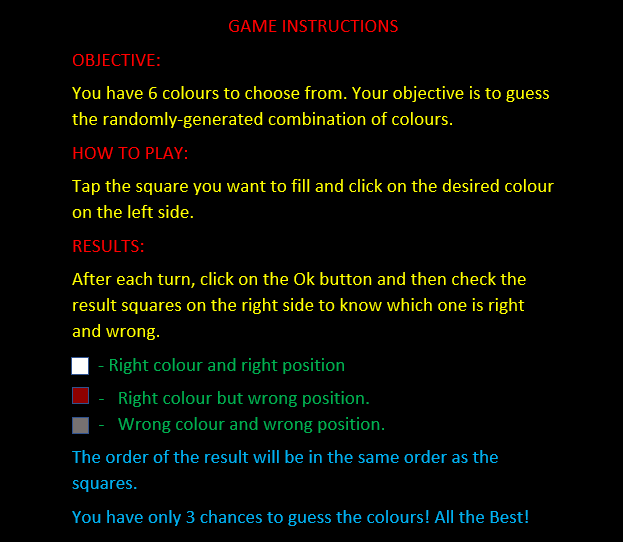
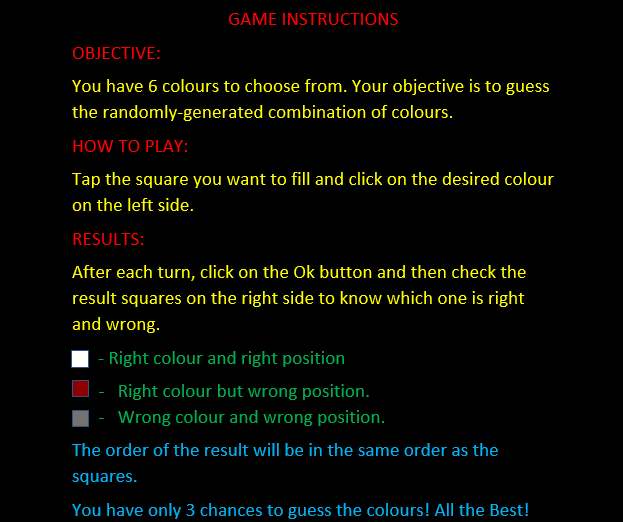
Add files via upload

diff --git a/sketch.js b/sketch.js
@@ -15,7 +15,7 @@ playImg = loadImage("play.jpg");
 }
 
 function setup() {
-  createCanvas(displayWidth-50, displayHeight-50);
+  createCanvas(windowWidth-50,windowHeight-50);
   attempt = 0;
   chance = 0;
   displayWin = false;
@@ -23,91 +23,90 @@ function setup() {
   colArray = shuffle(colorArray);
   console.log(colArray);
  
-  redB = createSprite(50,200,20,20);
+  redB = createSprite(windowWidth/5,windowHeight/3.8,20,20);
   redB.shapeColor = "red";
   redB.visible = false;
 
-  blueB = createSprite(100,200,20,20);
+  blueB = createSprite(windowWidth/4.3,windowHeight/3.8,20,20);
   blueB.shapeColor = "blue";
   blueB.visible = false;
 
-  purpleB = createSprite(150,200,20,20);
+  purpleB = createSprite(windowWidth/3.8,windowHeight/3.8,20,20);
   purpleB.shapeColor = "purple";
   purpleB.visible = false;
 
-  yellowB = createSprite(50,250,20,20);
+  yellowB = createSprite(windowWidth/5,windowHeight/3.2,20,20);
   yellowB.shapeColor = "yellow";
   yellowB.visible = false;
 
-  orangeB = createSprite(100,250,20,20);
+  orangeB = createSprite(windowWidth/4.3,windowHeight/3.2,20,20);
   orangeB.shapeColor = "orange";
   orangeB.visible = false;
 
-  greenB = createSprite(150,250,20,20);
+  greenB = createSprite(windowWidth/3.8,windowHeight/3.2,20,20);
   greenB.shapeColor = "green";
   greenB.visible = false;
 
-  sqr5 = createSprite(400,200,50,50);
+  sqr5 = createSprite(windowWidth/2.73,windowHeight/3.8,50,50);
   sqr5.visible = false;
-  sqr6 = createSprite(550,200,50,50);
+  sqr6 = createSprite(windowWidth/2.3,windowHeight/3.8,50,50);
   sqr6.visible = false;
-  sqr7 = createSprite(700,200,50,50);
+  sqr7 = createSprite(windowWidth/2,windowHeight/3.8,50,50);
   sqr7.visible = false;
-  sqr8 = createSprite(850,200,50,50);
+  sqr8 = createSprite(windowWidth/1.75,windowHeight/3.8,50,50);
   sqr8.visible = false;
-  sqr9 = createSprite(400,300,50,50);
+  sqr9 = createSprite(windowWidth/2.73,windowHeight/2.6,50,50);
   sqr9.visible = false;
-  sqr10 = createSprite(550,300,50,50);
+  sqr10 = createSprite(windowWidth/2.3,windowHeight/2.6,50,50);
   sqr10.visible = false;
-  sqr11 = createSprite(700,300,50,50);
+  sqr11 = createSprite(windowWidth/2,windowHeight/2.6,50,50);
   sqr11.visible = false;
-  sqr12 = createSprite(850,300,50,50);
+  sqr12 = createSprite(windowWidth/1.75,windowHeight/2.6,50,50);
   sqr12.visible = false;
-  sqr13 = createSprite(400,400,50,50);
-  sqr14 = createSprite(550,400,50,50);
-  sqr15 = createSprite(700,400,50,50);
-  sqr16 = createSprite(850,400,50,50);
+  sqr13 = createSprite(windowWidth/2.73,windowHeight/2,50,50);
+  sqr14 = createSprite(windowWidth/2.3,windowHeight/2,50,50);
+  sqr15 = createSprite(windowWidth/2,windowHeight/2,50,50);
+  sqr16 = createSprite(windowWidth/1.75,windowHeight/2,50,50);
  
-
-  ok1 = createSprite(1000,400,50,50);
+  ok1 = createSprite(windowWidth/1.55,windowHeight/2,50,50);
   ok1.addImage(arrowImg);
   ok1.scale = 0.06;
-  check1 = createSprite(950,400,20,20);
+  check1 = createSprite(windowWidth/1.6,windowHeight/2,20,20);
   check1.visible = false;
-  check2 = createSprite(1000,400,20,20);
+  check2 = createSprite(windowWidth/1.55,windowHeight/2,20,20);
   check2.visible = false;
-  check3= createSprite(1050,400,20,20);
+  check3= createSprite(windowWidth/1.5,windowHeight/2,20,20);
   check3.visible = false;
-  check4 = createSprite(1100,400,20,20);
+  check4 = createSprite(windowWidth/1.45,windowHeight/2,20,20);
   check4.visible = false;
 
-  ok2 = createSprite(1000,300,50,50);
+  ok2 = createSprite(windowWidth/1.55,windowHeight/2.6,50,50);
   ok2.visible = false;
   ok2.addImage(arrowImg);
   ok2.scale = 0.06;
-  check5 = createSprite(950,300,20,20);
+  check5 = createSprite(windowWidth/1.6,windowHeight/2.6,20,20);
   check5.visible = false;
-  check6 = createSprite(1000,300,20,20);
+  check6 = createSprite(windowWidth/1.55,windowHeight/2.6,20,20);
   check6.visible = false;
-  check7= createSprite(1050,300,20,20);
+  check7= createSprite(windowWidth/1.5,windowHeight/2.6,20,20);
   check7.visible = false;
-  check8 = createSprite(1100,300,20,20);
+  check8 = createSprite(windowWidth/1.45,windowHeight/2.6,20,20);
   check8.visible = false;
 
-  ok3 = createSprite(1000,200,50,50);
+  ok3 = createSprite(windowWidth/1.55,windowHeight/3.8,50,50);
   ok3.visible = false;
   ok3.addImage(arrowImg);
   ok3.scale = 0.06;
-  check9 = createSprite(950,200,20,20);
+  check9 = createSprite(windowWidth/1.6,windowHeight/3.8,20,20);
   check9.visible = false;
-  check10 = createSprite(1000,200,20,20);
+  check10 = createSprite(windowWidth/1.55,windowHeight/3.8,20,20);
   check10.visible = false;
-  check11= createSprite(1050,200,20,20);
+  check11= createSprite(windowWidth/1.5,windowHeight/3.8,20,20);
   check11.visible = false;
-  check12 = createSprite(1100,200,20,20);
+  check12 = createSprite(windowWidth/1.45,windowHeight/3.8,20,20);
   check12.visible = false;
 
-  gameInstructions = createSprite(displayWidth/2,displayHeight/2,500,300);
+  gameInstructions = createSprite(windowWidth/2,windowHeight/2,500,300);
   gameInstructions.addImage(infoImg);
   gameInstructions.scale = 1.3;
 
@@ -120,9 +119,9 @@ function draw() {
  background("black"); 
  fill("white");
  textSize(18);
- text("- Right colour and right position",320,505);
- text("- Right colour but wrong position",320,555);
- text("- Wrong colour and wrong position",320,605);
+ text("- Right colour and right position",windowWidth/2.2,windowHeight/1.6);
+ text("- Right colour but wrong position",windowWidth/2.2,windowHeight/1.48);
+ text("- Wrong colour and wrong position",windowWidth/2.2,windowHeight/1.38);
 
  if(mousePressedOver(playB)){
    gameInstructions.visible = false;
@@ -138,27 +137,27 @@ function draw() {
    info3.visible = true;
  }
 
- sqr1 = createSprite(400,100,50,50);
+ sqr1 = createSprite(windowWidth/2.73,windowHeight/6.4,50,50);
  sqr1.shapeColor = colArray[0];
 
- sqr2 = createSprite(550,100,50,50);
+ sqr2 = createSprite(windowWidth/2.3,windowHeight/6.4,50,50);
  sqr2.shapeColor = colArray[1];
 
- sqr3 = createSprite(700,100,50,50);
+ sqr3 = createSprite(windowWidth/2,windowHeight/6.4,50,50);
  sqr3.shapeColor = colArray[2];
  
- sqr4 = createSprite(850,100,50,50);
+ sqr4 = createSprite(windowWidth/1.75,windowHeight/6.4,50,50);
  sqr4.shapeColor = colArray[3];
 
- info1 = createSprite(300,500,20,20);
+ info1 = createSprite(windowWidth/2.3,windowHeight/1.61,20,20);
  info1.shapeColor = "white";
  info1.visible = false;
 
- info2 = createSprite(300,550,20,20);
+ info2 = createSprite(windowWidth/2.3,windowHeight/1.49,20,20);
  info2.shapeColor = "brown";
  info2.visible = false;
 
- info3 = createSprite(300,600,20,20);
+ info3 = createSprite(windowWidth/2.3,windowHeight/1.39,20,20);
  info3.shapeColor = "grey";
  info3.visible = false;
  
@@ -424,22 +423,22 @@ drawSprites();
     }
 
     function youWin(){
-  text("YOU WIN!",950,550);
-  text(attempt+ " Out of total 3 attempts",950,600);
+  text("YOU WIN!",windowWidth/2.2,windowHeight/1.2);
+  text(attempt+ " Out of total 3 attempts",windowWidth/1.6,windowHeight/1.2);
   sqr1.visible = true;
   sqr2.visible = true;
   sqr3.visible = true;
   sqr4.visible = true;
-  text("← CORRECT ANSWER",950,100);
+  text("← CORRECT ANSWER",windowWidth/1.6,windowHeight/6.4);
 }
 
 function youLose(){
-  text("YOU LOSE!",950,550);
+  text("YOU LOSE!",windowWidth/2.2,windowHeight/1.2);
   sqr1.visible = true;
   sqr2.visible = true;
   sqr3.visible = true;
   sqr4.visible = true;
-  text("← CORRECT ANSWER",950,100);
+  text("← CORRECT ANSWER",windowWidth/1.6,windowHeight/6.4);
 }
 
    
